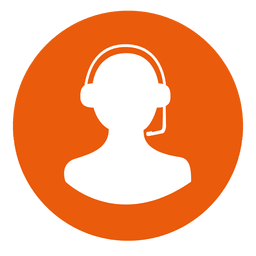
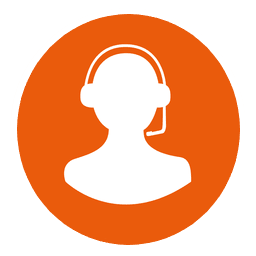
updated SpeechToText to have a class structure
implemented SpeechToText into GUI and currently just writes out what
user said in the response box

updated avatar (added grey border)

diff --git a/VirtualAssistantGUI.py b/VirtualAssistantGUI.py
@@ -3,6 +3,7 @@ from tkinter import ttk
 import sv_ttk
 import time
 from PIL import Image, ImageTk
+from SpeechToText import *
 
 
 #-----------------------------------------------------------------------------------------------------------------------
@@ -91,6 +92,7 @@ class VirtualAssistantGUI(tk.Tk):
         # Check if the distance is less than or equal to the radius of the circle
         if distance <= r:
             print("Assistant clicked")
+            self.listen_to_user()
 
     # animates the avatar to rotate.
     def animate_image(self):
@@ -104,7 +106,7 @@ class VirtualAssistantGUI(tk.Tk):
             self.angle = 359
 
         # Rotate the image
-        img = Image.open("assistant2.png")
+        img = Image.open("assistant1.png")
         img = img.rotate(self.angle)
         self.assistant_image = ImageTk.PhotoImage(img)
 
@@ -113,6 +115,11 @@ class VirtualAssistantGUI(tk.Tk):
 
         # Call this function again after 50ms
         self.after(50, self.animate_image)
+
+    def listen_to_user(self):
+        speechR = SpeechRecognizer()
+        transcription = speechR.listen()
+        self.add_response(transcription)
 
 
 #-----------------------------------------------------------------------------------------------------------------------
@@ -130,7 +137,7 @@ class MainPage(tk.Frame):
         self.canvas.pack()
 
         # Loading the image using PhotoImage
-        self.assistant_image = tk.PhotoImage(file="assistant2.png")
+        self.assistant_image = tk.PhotoImage(file="assistant1.png")
         self.image_id = self.canvas.create_image(200, 200, image=self.assistant_image)
 
 

diff --git a/SpeechToText.py b/SpeechToText.py
@@ -2,33 +2,40 @@
 
 import speech_recognition as sr
 
-r = sr.Recognizer()
+class SpeechRecognizer:
+
+    def __init__(self):
+
+        self.recognizer = sr.Recognizer()
+        self.mic = sr.Microphone()
 
 
 
-mic = sr.Microphone()
+
+    def listen(self) -> str:
+
+        with self.mic as source:
+            audio = self.recognizer.listen(source)
+
+        response = {
+                "success": True,
+                "error": None,
+                "transcription": None
+        }
+        try:
+            response["transcription"] = self.recognizer.recognize_google(audio)
+        except sr.RequestError:
+            # API was unreachable or unresponsive
+            response["success"] = False
+            response["error"] = "API unavailable"
+            return response["error"]
+
+        except sr.UnknownValueError:
+                # speech was unintelligible
+                response["error"] = "Unable to recognize speech"
+                return response["error"]
+
+        return response["transcription"]
 
 
-input("press when ready")
-with mic as source:
-    audio = r.listen(source)
 
-
-
-response = {
-        "success": True,
-        "error": None,
-        "transcription": None
-}
-try:
-    response["transcription"] = r.recognize_google(audio)
-except sr.RequestError:
-    # API was unreachable or unresponsive
-    response["success"] = False
-    response["error"] = "API unavailable"
-
-except sr.UnknownValueError:
-        # speech was unintelligible
-        response["error"] = "Unable to recognize speech"
-
-print(response)
